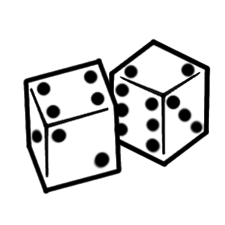
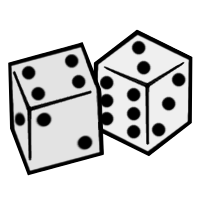
Improved on the randomize button.

diff --git a/ui/customize_hearthling/customize_hearthling.less b/ui/customize_hearthling/customize_hearthling.less
@@ -44,12 +44,13 @@
       #randomButton
       {
          position: absolute;
-         left: 12px;
-         bottom: 0px;
+         left: 10px;
+         bottom: -10px;
          width: 80px;
          height: 80px;
          background: url('./images/random.png');
-         background-size: 90px 90px;
+         background-size: 75px 75px;
+         .stdBG;
       }
 
       .genderButton
